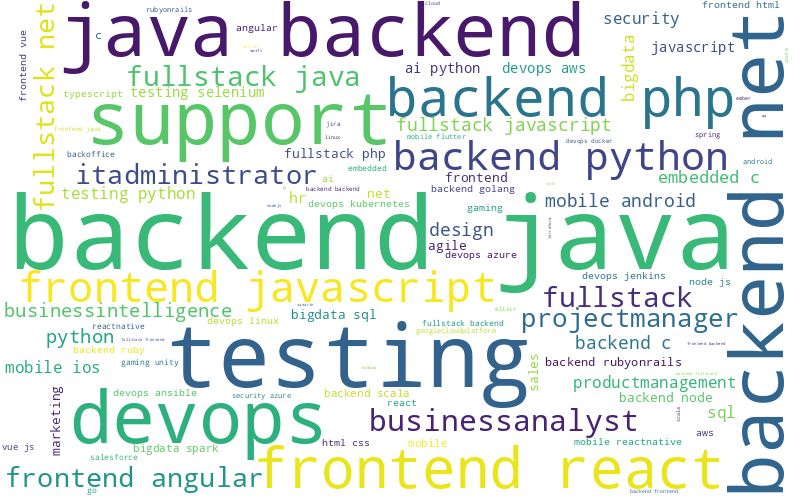
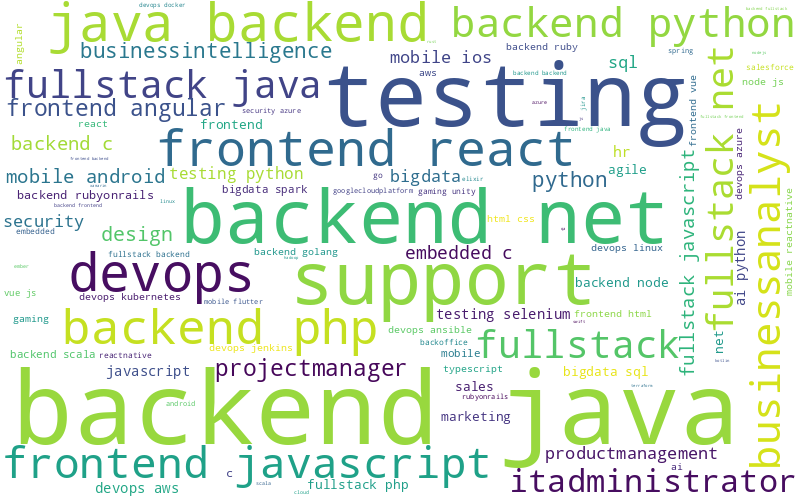
added average salary based on skills histogram

diff --git a/app.py b/app.py
@@ -6,6 +6,7 @@ from dash.dependencies import Input, Output
 import pandas as pd
 import plotly.express as px
 import sqlalchemy
+import pandasql as ps
 from wordcloud import WordCloud
 
 app = Dash(__name__)
@@ -36,6 +37,7 @@ app.layout = html.Div([
     ),
 
     dcc.Graph(id="it-offers-salary", figure={}),
+    dcc.Graph(id="skills-salary", figure={}),
     dcc.Graph(id="skills-pop", figure={}),
     dcc.Graph(id="categories-pop", figure={}),
 
@@ -43,14 +45,15 @@ app.layout = html.Div([
 
     dcc.Graph(id="average-salary", figure={}),
 
-    html.Img(src='assets/skills.png'),
-    html.Img(src='assets/categories.png')
+    # html.Img(src='assets/skills.png'),
+    # html.Img(src='assets/categories.png')
 ])
 
 
 # Update graph
 @app.callback(
     [Output(component_id="it-offers-salary", component_property="figure"),
+     Output(component_id="skills-salary", component_property="figure"),
      Output(component_id="skills-pop", component_property="figure"),
      Output(component_id="categories-pop", component_property="figure"),
      Output(component_id="average-salary", component_property="figure"),
@@ -127,17 +130,26 @@ def update_graph(date_dt):
     avg_salary_fig = px.scatter(avg_salary_df, x="date", y="salary", trendline="lowess")
     avg_salary_fig.update_layout(xaxis_title_text="Day", yaxis_title_text="Salary")
     avg_salary_fig.update_xaxes(dtick="D1")
-
     max_date_str = str(max_date)
     max_date_dt = date(year=int(max_date_str[0:4]), month=int(max_date_str[4:6]), day=int(max_date_str[6:8]))
 
-    skills_cloud = WordCloud(width=1000, height=500, background_color="white").generate(" ".join(skills))
-    skills_cloud.to_file("assets/skills.png")
+    # word clouds
+    # skills_cloud = WordCloud(width=1000, height=500, background_color="white").generate(" ".join(skills))
+    # skills_cloud.to_file("assets/skills.png")
+    # categories_cloud = WordCloud(width=800, height=500, background_color="white").generate(" ".join(categories))
+    # categories_cloud.to_file("assets/categories.png")
 
-    categories_cloud = WordCloud(width=800, height=500, background_color="white").generate(" ".join(categories))
-    categories_cloud.to_file("assets/categories.png")
+    skill_salary = {}
+    for skill in set(skills):
+        if avg := ps.sqldf(f"select avg(salary) from dff where skills like '%{skill}%'")['avg(salary)'][0]:
+            skill_salary[skill] = avg
 
-    return salary_fig, skills_pop_fig, categories_pop_fig, avg_salary_fig, max_date_dt
+    skill_sal_fig = px.histogram(x=skill_salary.keys(), y=skill_salary.values(),
+                                 title='Average salary based on different skills')
+    skill_sal_fig.update_layout(xaxis_title_text='Skills', yaxis_title_text='Average salary')
+    skill_sal_fig.update_xaxes(categoryorder="total descending")
+
+    return salary_fig, skill_sal_fig, skills_pop_fig, categories_pop_fig, avg_salary_fig, max_date_dt
 
 
 if __name__ == "__main__":
